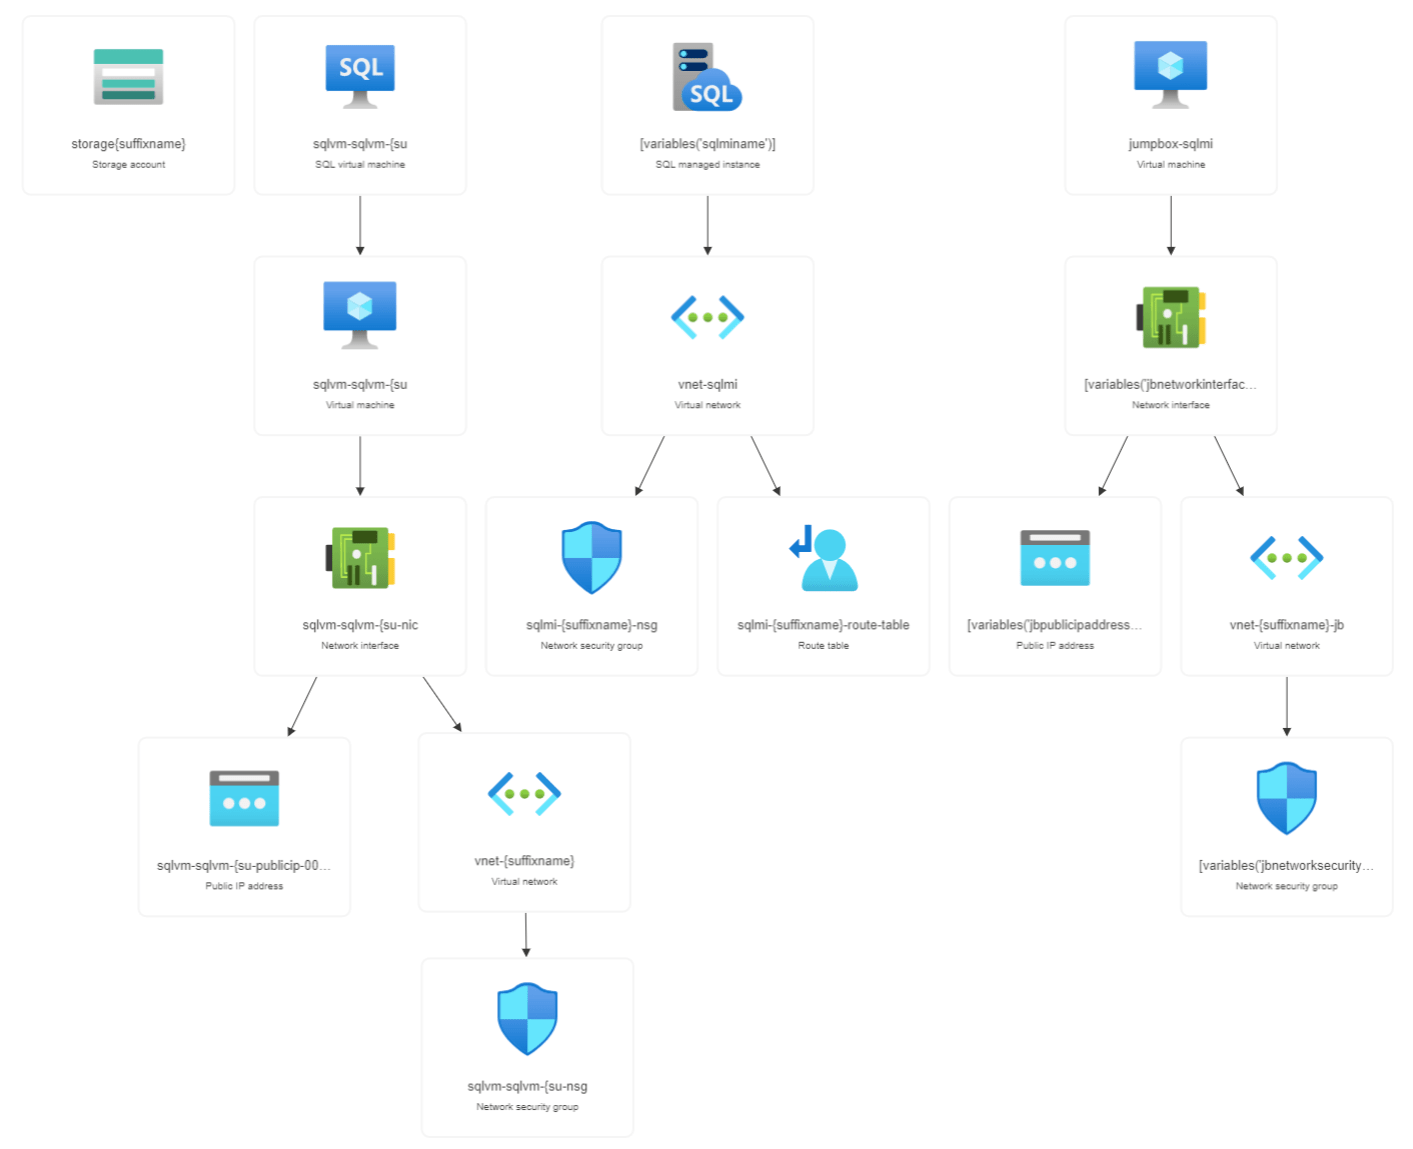
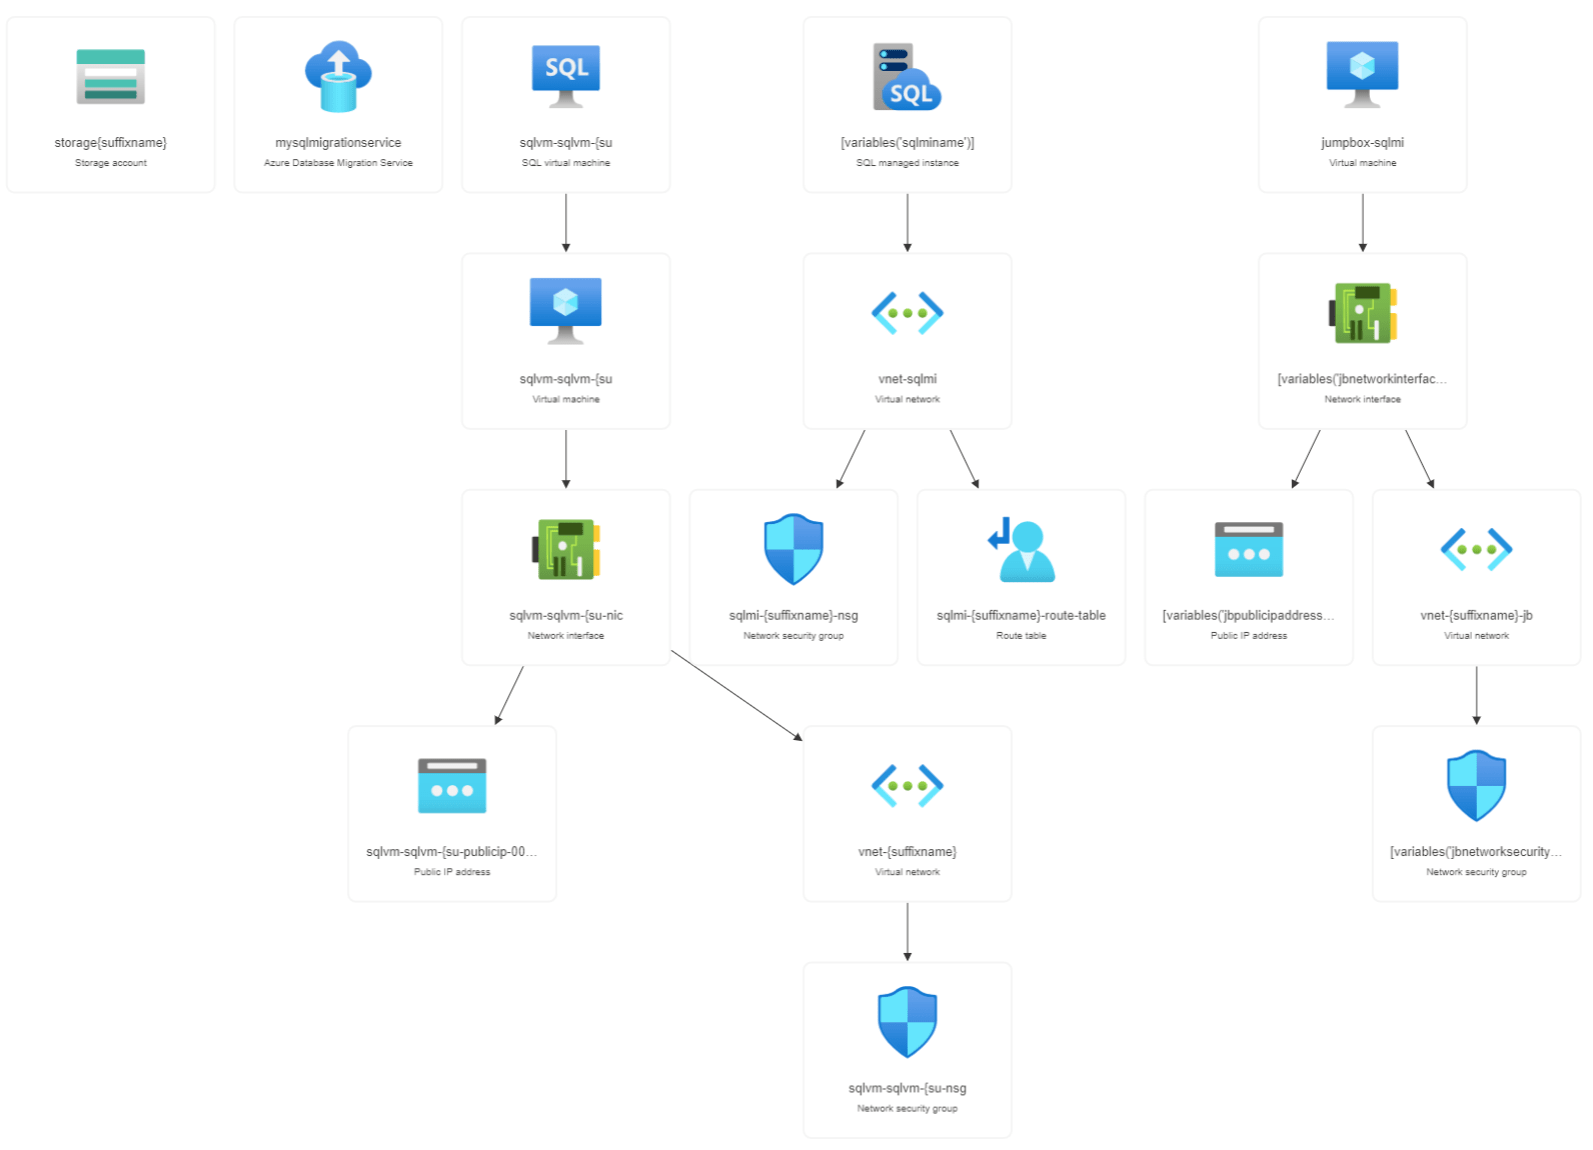
initial draft

diff --git a/migration/README.md b/migration/README.md
@@ -14,8 +14,6 @@ Now, it's time to perform a online migration of the Adventureworks2019 database 
 
     In addition, the Azure CLI command [az datamigration](https://learn.microsoft.com/en-us/cli/azure/datamigration?view=azure-cli-latest) can be used to manage data migration at scale.
 
-    az datamigration sql-service create --resource-group "1clickpoc" --sql-migration-service-name "MySqlMigrationService" --location "westeurope"
-
 2. Backup database
 
     Backup must be taken before starting the migration:
@@ -48,111 +46,11 @@ Now, it's time to perform a online migration of the Adventureworks2019 database 
     > Now you have to connect to the Jumpbox VM.
     > Use the credentials provided in the deploy page.
 
-5. Install az datamigration extension. Open either a command shell or PowerShell as administrator.
+## Azure Database Migration Service
 
-    `az extension add --name datamigration`
+Use the az datamigration sql-managed-instance create command to  create new instance of Azure Database Migration Service.
 
-6. Run the following to login from your client using your default web browser
-
-    `az login`
-
-## Run the assessment
-
-1. We can run a SQL server assessment using the ***az datamigration get-assessment*** command.
-
-    > [!IMPORTANT]
-    > Change your IP Address
-
-2. Assessment at scale using config file
-
-    We can also create a config file to use as a parameter to run assessment on SQL servers.The config file has the following structure:
-
-    ```json
-    {
-        "action": "Assess",
-        "outputFolder": "C:\\Output",
-        "overwrite":  "True",
-        "sqlConnectionStrings": [
-            "Data Source=Server1.database.net;Initial Catalog=master;Integrated Security=True;",
-            "Data Source=Server2.database.net;Initial Catalog=master;Integrated Security=True;"
-        ]
-    }
-    ```
-
-    The config file can be passed to the cmdlet in the following way
-
-    `az datamigration get-assessment --config-file-path "C:\Users\user\document\config.json"`
-
-    > [!TIP]
-    > To view the report, go to **C:\Output** folder and check the json file.
-
-    Learn more about using [CLI to assess sql server](https://github.com/Azure-Samples/data-migration-sql/blob/main/CLI/sql-server-assessment.md)
-
-## Performance data collection
-
-This step is optional. We already have a Azure SQL MI provisioned.
-
-1. We can run a SQL server performance data collection using the ***az datamigration performance-data-collection*** command.
-
-    `az datamigration performance-data-collection --connection-string "Data Source=20.2.100.5,1433;Initial Catalog=master;User Id=sqladmin;Password=My$upp3r$ecret" --output-folder "C:\Output" --perf-query-interval 10 --number-of-iteration 5 --static-query-interval 120`
-
-    > [!TIP]
-    > Collect as much data as you want, then stop the process.
-    > To view the report, go to **C:\Output** folder and check the report file.
-
-2. Running performance data collection at scale using config file
-
-    We can also create a config file to use as a parameter to run performance data collection on SQL servers.
-    The config file has the following structure:
-
-    ```json
-    {
-        "action": "PerfDataCollection",
-        "outputFolder": "C:\\Output",
-        "perfQueryIntervalInSec": 20,
-        "staticQueryIntervalInSec": 120,
-        "numberOfIterations": 7,
-        "sqlConnectionStrings": [
-            "Data Source=Server1.database.net;Initial Catalog=master;Integrated Security=True;",
-            "Data Source=Server2.database.net;Initial Catalog=master;Integrated Security=True;"
-        ]
-    }
-    ```
-
-    The config file can be passed to the cmdlet in the following way.
-
-    `az datamigration performance-data-collection --config-file-path "C:\Users\user\document\config.json"`
-
-    > [!TIP]
-    > You can look into the output folder to find a CSV file which also gives the details of performance data collected.
-
-    Learn more about using [CLI to perform data collection](https://github.com/Azure-Samples/data-migration-sql/blob/main/CLI/sql-server-sku-recommendation.md#performance-data-collection-using-connection-string)
-
-## SKU Recommendation
-
-1. After collecting data performance, we can get SKU recommendation using the **az datamigration get-sku-recommendation** command.
-
-    `az datamigration get-sku-recommendation --output-folder "C:\Output" --display-result --overwrite`
-
-2. Getting SKU recommendation at scale using config file.
-
-    We can also create a config file to use as a parameter to get SKU recommendation on SQL servers.The config file has the following structure:
-
-    ```json
-    {
-        "action": "GetSKURecommendation",
-        "outputFolder": "C:\\Output",
-        "overwrite":  "True",
-        "displayResult": "True",
-        "targetPlatform": "any",
-        "scalingFactor": 1000
-    }
-    ```
-
-    > [!TIP]
-    > You can look into the output folder to find a HTML file which also gives the details of SKU being recommended.
-
-    Learn more about using [CLI to get SKU recommendation](https://github.com/Azure-Samples/data-migration-sql/blob/main/CLI/sql-server-sku-recommendation.md#performance-data-collection-using-connection-string)
+    az datamigration sql-service create --resource-group "1clickpoc" --sql-migration-service-name "MySqlMigrationService" --location "<location>"
 
 ## Migration
 

diff --git a/assessment/README.md b/assessment/README.md
@@ -41,7 +41,7 @@ In addition, the Azure CLI command [az datamigration](https://learn.microsoft.co
     > [!IMPORTANT]
     > Change the IP Address
 
-    `az datamigration get-assessment --connection-string "Data Source=20.2.1.177,1433;Initial Catalog=master;User Id=sqladmin;Password=My$upp3r$ecret" --output-folder "C:\Output" --overwrite`
+    `az datamigration get-assessment --connection-string "Data Source=20.2.100.5,1433;Initial Catalog=master;User Id=sqladmin;Password=My$upp3r$ecret" --output-folder "C:\Output" --overwrite`
 
 2. Assessment at scale using config file
 
@@ -74,7 +74,7 @@ This step is optional. We already have a Azure SQL MI provisioned.
 
 1. We can run a SQL server performance data collection using the ***az datamigration performance-data-collection*** command.
 
-    `az datamigration performance-data-collection --connection-string "Data Source=20.229.104.177,1433;Initial Catalog=master;User Id=sqladmin;Password=My$upp3r$ecret" --output-folder "C:\Output" --perf-query-interval 10 --number-of-iteration 5 --static-query-interval 120`
+    `az datamigration performance-data-collection --connection-string "Data Source=20.2.100.5,1433;Initial Catalog=master;User Id=sqladmin;Password=My$upp3r$ecret" --output-folder "C:\Output" --perf-query-interval 10 --number-of-iteration 5 --static-query-interval 120`
 
     > [!TIP]
     > Collect as much data as you want, then stop the process.
@@ -109,6 +109,8 @@ This step is optional. We already have a Azure SQL MI provisioned.
     Learn more about using [CLI to perform data collection](https://github.com/Azure-Samples/data-migration-sql/blob/main/CLI/sql-server-sku-recommendation.md#performance-data-collection-using-connection-string)
 
 ## SKU Recommendation
+
+This step is optional. We already have a Azure SQL MI provisioned.
 
 1. We can get SKU recommendation using the **az datamigration get-sku-recommendation** command.
 
